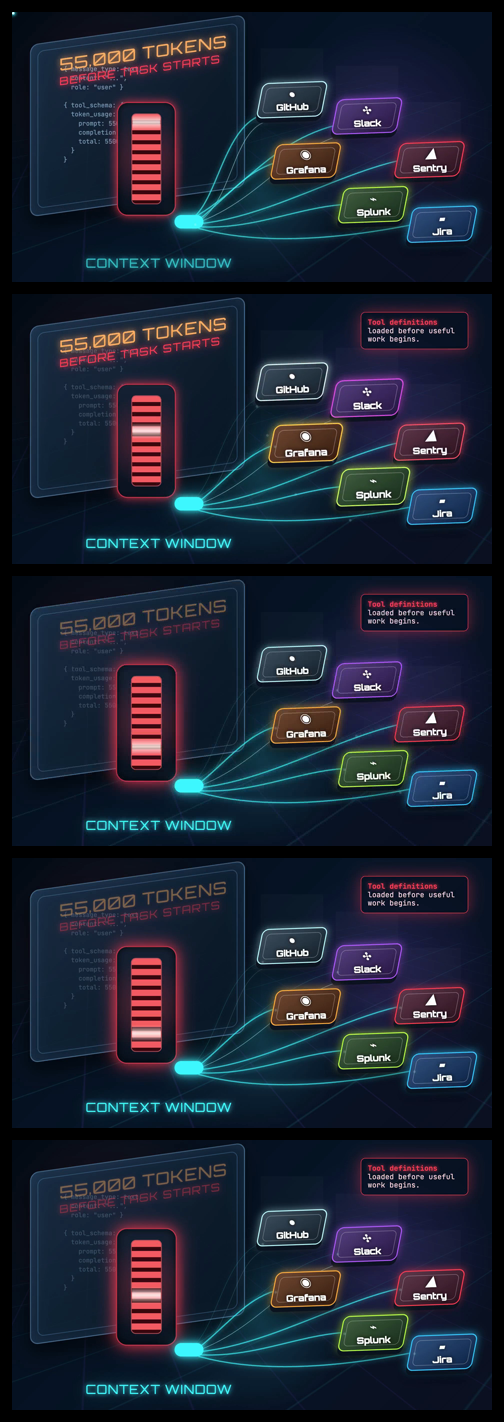
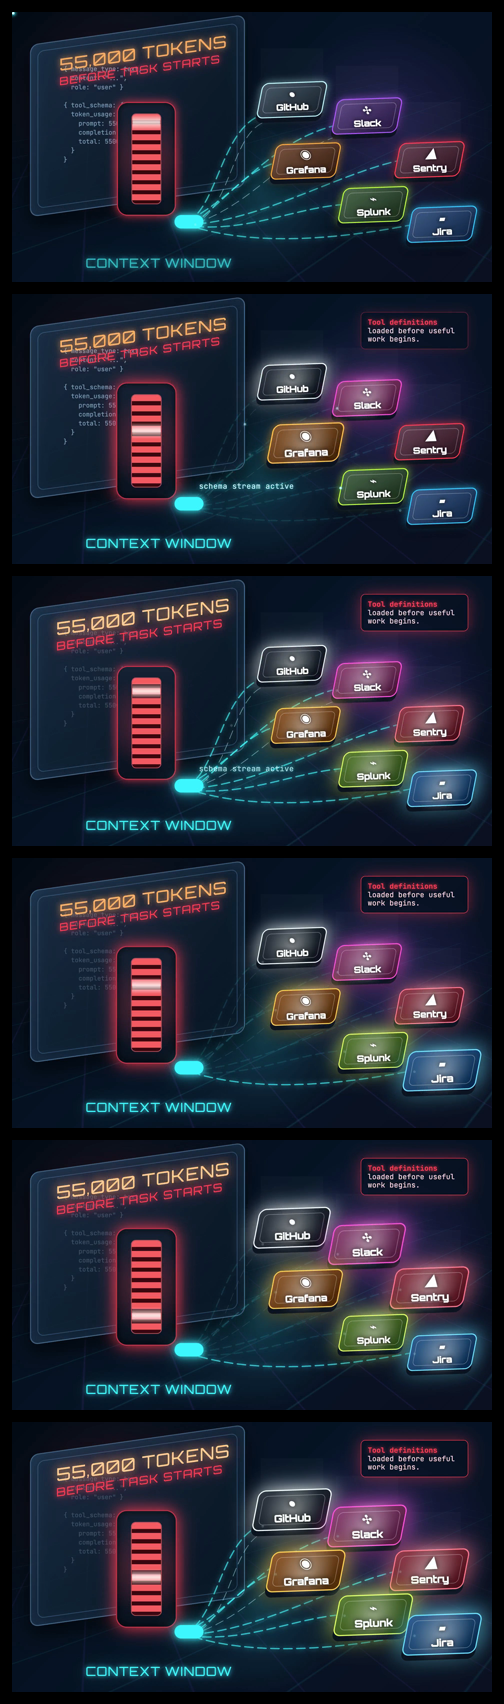
Improve token flood layered animation

diff --git a/video-12-mcp-token-stack/07-hyperframes-token-flood/index.html b/video-12-mcp-token-stack/07-hyperframes-token-flood/index.html
@@ -177,6 +177,7 @@
         stroke-linecap: round;
         filter: drop-shadow(0 0 10px rgba(63, 247, 255, 0.95));
         opacity: 0.72;
+        stroke-dasharray: 34 18;
       }
       .ray.alt { stroke: #aafcff; stroke-width: 2.4; opacity: 0.58; }
       .particle {
@@ -202,9 +203,19 @@
         letter-spacing: -1px;
         transform: skewX(-13deg) rotate(-2deg);
         border: 4px solid var(--edge);
-        background: linear-gradient(145deg, rgba(255, 255, 255, 0.12), rgba(0, 0, 0, 0.38)), var(--fill);
+        background-color: var(--fill);
+        background-image: linear-gradient(145deg, rgba(255, 255, 255, 0.18), rgba(0, 0, 0, 0.42));
         box-shadow: 0 18px 0 rgba(11, 18, 32, 0.94), 0 28px 52px rgba(0, 0, 0, 0.46), 0 0 34px var(--glow);
         z-index: 10;
+      }
+      .tile-glow {
+        position: absolute;
+        inset: -14px;
+        border-radius: 32px;
+        background: radial-gradient(circle, currentColor, transparent 64%);
+        opacity: 0;
+        filter: blur(8px);
+        z-index: -1;
       }
       .tool::before {
         content: "";
@@ -260,6 +271,18 @@
         color: #ff3d55;
         text-shadow: 0 0 16px rgba(255, 61, 85, 0.9);
       }
+      .pulse-label {
+        position: absolute;
+        left: 748px;
+        top: 760px;
+        color: #caffff;
+        font-family: "JetBrains Mono", Consolas, monospace;
+        font-size: 30px;
+        letter-spacing: 1px;
+        text-shadow: 0 0 18px rgba(63, 247, 255, 0.9);
+        opacity: 0;
+        z-index: 20;
+      }
     </style>
   </head>
   <body>
@@ -309,14 +332,15 @@
       <div class="hub"></div>
       <div class="context-label">CONTEXT WINDOW</div>
 
-      <div class="tool github"><span><span class="icon">●</span>GitHub</span></div>
-      <div class="tool slack"><span><span class="icon">✣</span>Slack</span></div>
-      <div class="tool grafana"><span><span class="icon">◉</span>Grafana</span></div>
-      <div class="tool sentry"><span><span class="icon">◢</span>Sentry</span></div>
-      <div class="tool splunk"><span><span class="icon">⌁</span>Splunk</span></div>
-      <div class="tool jira"><span><span class="icon">▰</span>Jira</span></div>
+      <div class="tool github"><i class="tile-glow"></i><span><span class="icon">●</span>GitHub</span></div>
+      <div class="tool slack"><i class="tile-glow"></i><span><span class="icon">✣</span>Slack</span></div>
+      <div class="tool grafana"><i class="tile-glow"></i><span><span class="icon">◉</span>Grafana</span></div>
+      <div class="tool sentry"><i class="tile-glow"></i><span><span class="icon">◢</span>Sentry</span></div>
+      <div class="tool splunk"><i class="tile-glow"></i><span><span class="icon">⌁</span>Splunk</span></div>
+      <div class="tool jira"><i class="tile-glow"></i><span><span class="icon">▰</span>Jira</span></div>
 
       <div class="warning"><strong>Tool definitions</strong><br />loaded before useful work begins.</div>
+      <div class="pulse-label">schema stream active</div>
 
       <div class="particle p1"></div>
       <div class="particle p2"></div>
@@ -331,7 +355,6 @@
       gsap.defaults({ overwrite: "auto" });
       const tl = gsap.timeline({ paused: true });
 
-      const rays = [".ray", ".ray.alt"];
       const tools = [".github", ".slack", ".grafana", ".sentry", ".splunk", ".jira"];
       const particles = [
         [".p1", [[704, 837], [835, 650], [998, 412]], 2.0],
@@ -351,10 +374,11 @@
         .from(".warning", { opacity: 0, x: 30, duration: 0.45 }, 2.2);
 
       tl.to("#token-title", {
-        opacity: 0.44,
-        textShadow: "0 0 6px rgba(255,174,99,0.35), 0 0 20px rgba(255,61,85,0.22)",
+        color: "#ffd19d",
+        textShadow: "0 0 34px rgba(255,174,99,1), 0 0 90px rgba(255,61,85,0.78)",
+        scale: 1.045,
         duration: 0.16,
-        repeat: 26,
+        repeat: 92,
         yoyo: true,
         ease: "steps(1)"
       }, 2.7);
@@ -377,21 +401,43 @@
       }, 2.5);
 
       tl.to(".ray", {
-        opacity: 0.18,
-        strokeWidth: 1.8,
-        duration: 0.22,
-        repeat: 32,
-        yoyo: true,
-        stagger: 0.04,
-        ease: "steps(1)"
-      }, 2.8);
+        strokeDashoffset: -520,
+        duration: 1.4,
+        repeat: 12,
+        ease: "none"
+      }, 2.4)
+        .to(".ray", {
+          opacity: 0.12,
+          duration: 0.18,
+          repeat: 45,
+          yoyo: true,
+          stagger: 0.035,
+          ease: "steps(1)"
+        }, 2.8)
+        .to(".pulse-label", { opacity: 1, y: -12, duration: 0.35, repeat: 13, yoyo: true }, 3.0);
 
-      tl.to(".github", { "--edge": "#ffffff", "--glow": "rgba(255,255,255,0.92)", scale: 1.07, duration: 0.35, repeat: 9, yoyo: true }, 3.0)
-        .to(".slack", { "--edge": "#ff4bd8", "--glow": "rgba(255,75,216,0.95)", scale: 1.07, duration: 0.35, repeat: 9, yoyo: true }, 3.45)
-        .to(".grafana", { "--edge": "#ffd04d", "--glow": "rgba(255,208,77,0.95)", scale: 1.07, duration: 0.35, repeat: 9, yoyo: true }, 3.9)
-        .to(".sentry", { "--edge": "#ff7c8f", "--glow": "rgba(255,124,143,0.95)", scale: 1.07, duration: 0.35, repeat: 9, yoyo: true }, 4.35)
-        .to(".splunk", { "--edge": "#dbff6a", "--glow": "rgba(219,255,106,0.95)", scale: 1.07, duration: 0.35, repeat: 9, yoyo: true }, 4.8)
-        .to(".jira", { "--edge": "#73dfff", "--glow": "rgba(115,223,255,0.95)", scale: 1.07, duration: 0.35, repeat: 9, yoyo: true }, 5.25);
+      const activeStates = [
+        [".github", "#07111f", "#f4ffff", "0 18px 0 rgba(11,18,32,0.94), 0 28px 52px rgba(0,0,0,0.46), 0 0 70px rgba(244,255,255,1)"],
+        [".slack", "#7b215f", "#ff54de", "0 18px 0 rgba(11,18,32,0.94), 0 28px 52px rgba(0,0,0,0.46), 0 0 78px rgba(255,84,222,1)"],
+        [".grafana", "#7b3b05", "#ffd056", "0 18px 0 rgba(11,18,32,0.94), 0 28px 52px rgba(0,0,0,0.46), 0 0 78px rgba(255,208,86,1)"],
+        [".sentry", "#7b1327", "#ff788d", "0 18px 0 rgba(11,18,32,0.94), 0 28px 52px rgba(0,0,0,0.46), 0 0 78px rgba(255,120,141,1)"],
+        [".splunk", "#3a650e", "#dfff68", "0 18px 0 rgba(11,18,32,0.94), 0 28px 52px rgba(0,0,0,0.46), 0 0 78px rgba(223,255,104,1)"],
+        [".jira", "#073f7c", "#6de1ff", "0 18px 0 rgba(11,18,32,0.94), 0 28px 52px rgba(0,0,0,0.46), 0 0 78px rgba(109,225,255,1)"]
+      ];
+      activeStates.forEach(([selector, fill, edge, shadow], i) => {
+        const at = 3.0 + i * 0.42;
+        tl.to(selector, { backgroundColor: fill, borderColor: edge, boxShadow: shadow, scale: 1.12, duration: 0.26 }, at)
+          .to(`${selector} .tile-glow`, { opacity: 0.45, duration: 0.26 }, at)
+          .to(selector, { scale: 1.0, duration: 0.24 }, at + 0.35);
+      });
+      activeStates.forEach(([selector, fill, edge, shadow], i) => {
+        const at = 7.0 + i * 0.62;
+        tl.to(selector, { backgroundColor: fill, borderColor: edge, boxShadow: shadow, scale: 1.13, duration: 0.3, repeat: 3, yoyo: true }, at);
+      });
+      activeStates.forEach(([selector, fill, edge, shadow], i) => {
+        const at = 14.0 + i * 0.25;
+        tl.to(selector, { backgroundColor: fill, borderColor: edge, boxShadow: shadow, scale: 1.14, duration: 0.22, repeat: 4, yoyo: true }, at);
+      });
 
       particles.forEach(([selector, pts, start]) => {
         tl.set(selector, { x: pts[0][0], y: pts[0][1], opacity: 0 }, start)
@@ -404,8 +450,7 @@
       tl.to(".code-lines", { opacity: 0.38, duration: 0.2, repeat: 20, yoyo: true, ease: "steps(1)" }, 4.0)
         .to(".warning", { borderColor: "rgba(255,61,85,0.95)", boxShadow: "0 0 60px rgba(255,61,85,0.45)", duration: 0.5, repeat: 10, yoyo: true }, 4.5)
         .to(".grid", { opacity: 0.78, duration: 1.8, repeat: 5, yoyo: true }, 5.0)
-        .to("#root", { filter: "brightness(1.16) saturate(1.18)", duration: 0.5, repeat: 9, yoyo: true }, 6.0)
-        .to([".warning", ".token-title", ".tool", ".meter-shell", ".context-label", ".ray", ".hub", ".particle"], { opacity: 0, duration: 0.65, ease: "power2.in" }, 19.2);
+        .to([".warning", ".pulse-label", ".token-title", ".tool", ".meter-shell", ".context-label", ".ray", ".hub", ".particle"], { opacity: 0, duration: 0.65, ease: "power2.in" }, 19.2);
 
       window.__timelines["main"] = tl;
     </script>